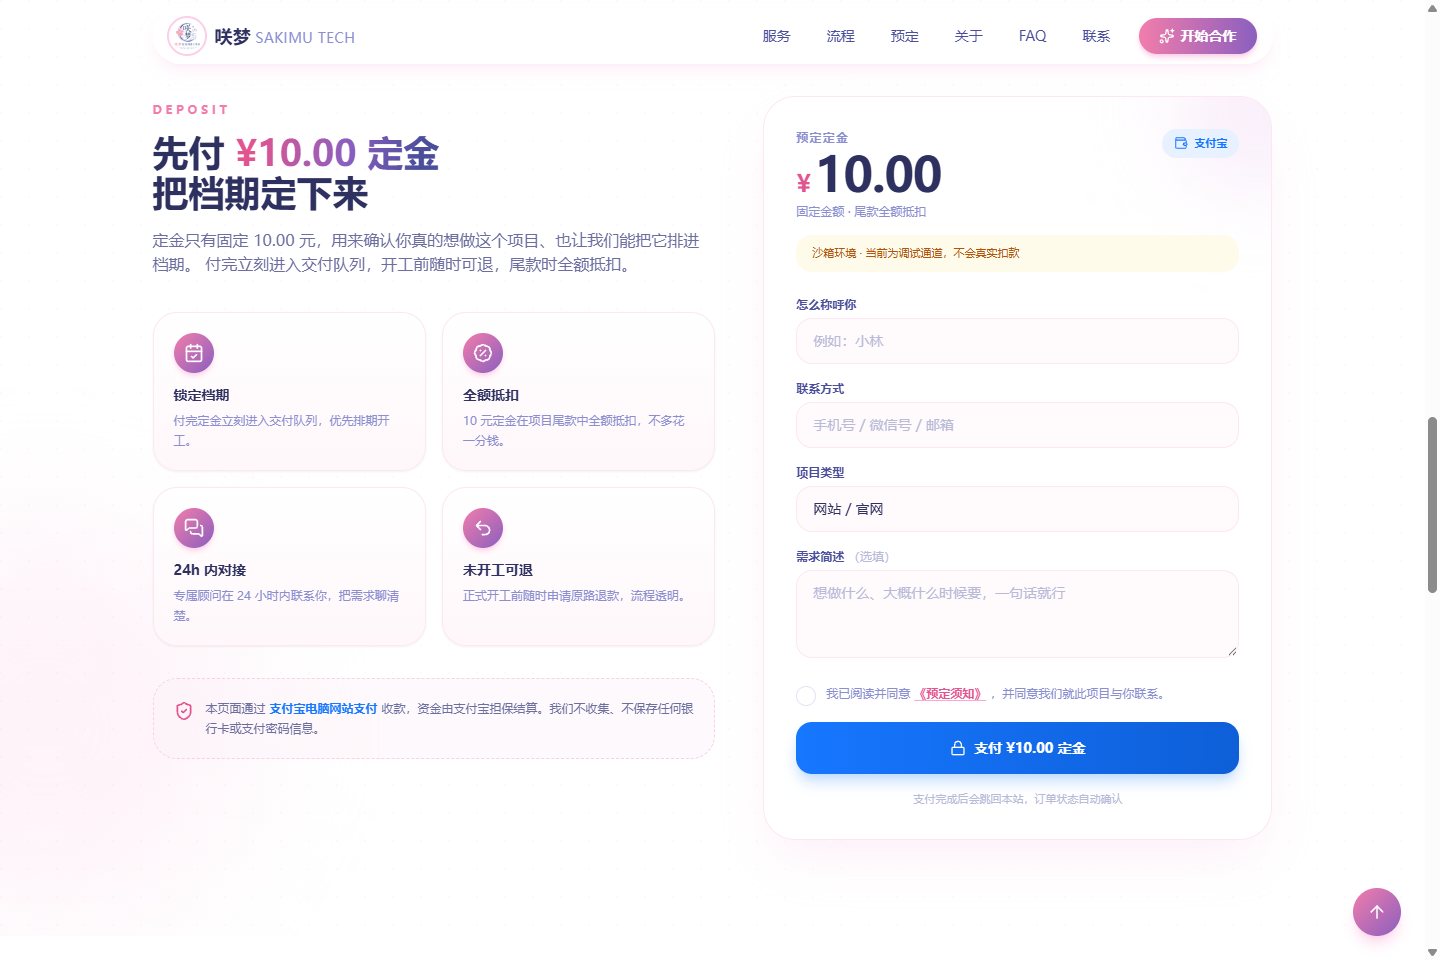
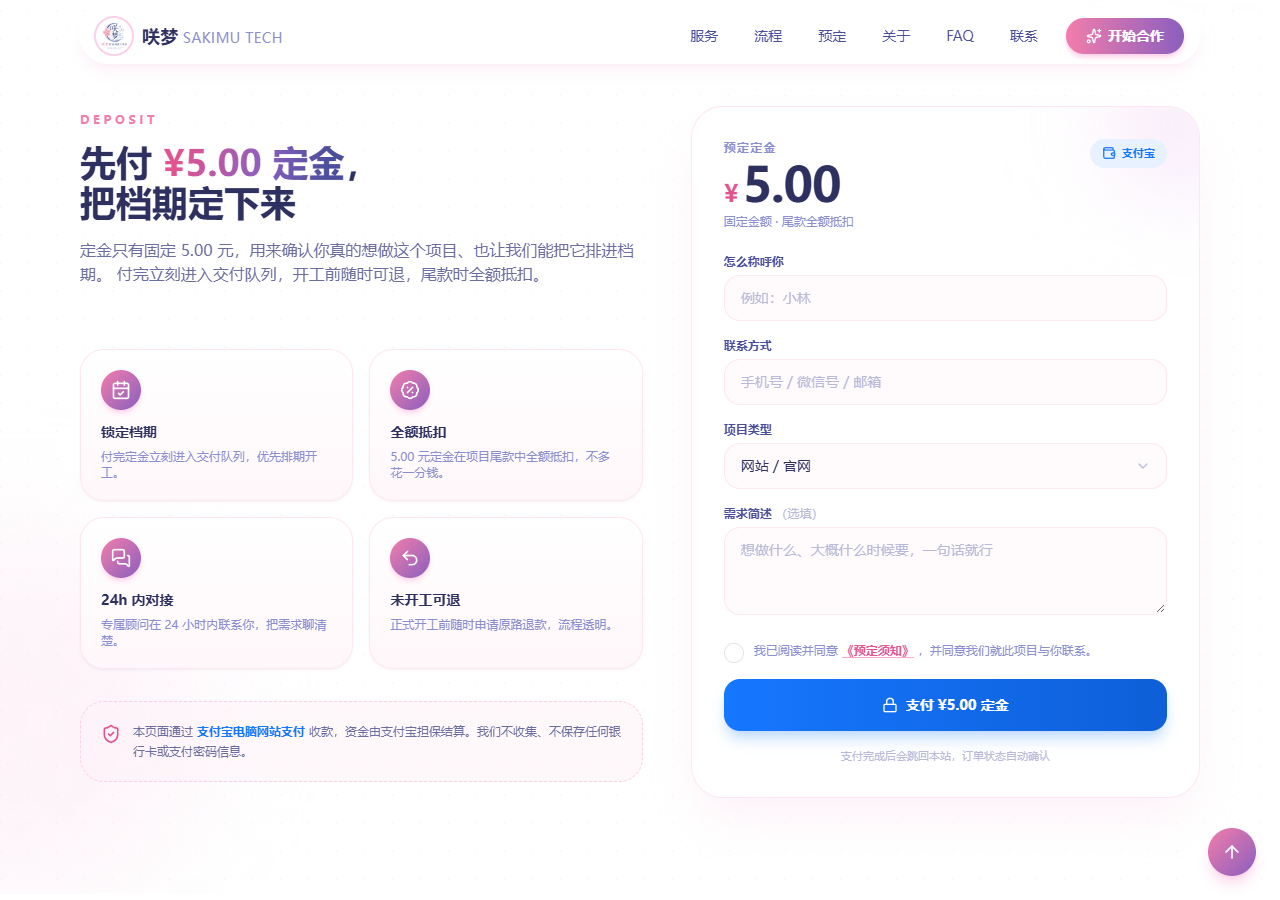
docs: 补充手机端说明与最新预览图
- 记录 page.pay 在手机上的实测形态（扫码/账户登录收银台）与 wap 切换条件
- 排障表补手机端两条；已知限制标注手机网站支付未签约
- 刷新 docs/preview 桌面端与移动端截图（¥5、表单前置布局）

diff --git a/docs/alipay-payment.md b/docs/alipay-payment.md
@@ -186,6 +186,30 @@ Nginx 反代与 systemd 单元示例见仓库 README 历史版本或直接：
 - **幂等**：同一 `out_trade_no` 重复通知只更新不重复记账，`paid_at` 只写一次。
 - **不依赖同步跳转**：`return` 里主动 `trade.query`，页面轮询 + 手动查询双保险。
 
+### 手机端（移动浏览器）
+
+**实测结论**（iPhone UA 打真实网关）：电脑网站支付在手机上**可以完成支付**，落地的是标准收银台
+`excashier.alipay.com/standard/auth.htm`，页面提供「打开手机支付宝 → 扫一扫付款」和「账户名 + 支付密码登录」两条路。
+能用，但不是手机原生体验（不会自动唤起支付宝 App）。
+
+因此做了两层：
+
+1. **界面适配**（默认生效）：移动端把表单排在简介之后、权益与说明后置；输入框 16px 起，规避 iOS Safari 聚焦缩放；
+   390px 宽度下无横向溢出；按钮触控高度 52px。桌面端布局不变（左文右表单，表单吸顶）。
+2. **收银台切换**`ALIPAY_MOBILE_METHOD`：
+
+   | 取值 | 手机上的行为 | 前提 |
+   | --- | --- | --- |
+   | `page`（当前默认） | 电脑网站支付收银台：扫码 / 账户密码登录 | 已签约电脑网站支付 |
+   | `wap` | 手机网站支付 `alipay.trade.wap.pay` / `QUICK_WAP_WAY`，自动唤起支付宝 App | **需先签约「手机网站支付」** |
+
+   签约后只需把 `wrangler.toml` 的 `ALIPAY_MOBILE_METHOD` 改成 `wap` 并 push，代码无需改动
+   （服务端按 UA 自动选择；`shared/alipay-core.js` 里 `PAY_METHODS` 定义两种收银台）。
+   订单会记录 `pay_method`，后台列表可直接看到这笔单走的哪种收银台。
+
+> 未签约就切到 `wap`，手机上会落到支付宝的「无权限」页，所以默认保持 `page`。
+
+
 ---
 
 ## 6. 接口清单
@@ -299,6 +323,8 @@ Nginx 反代与 systemd 单元示例见仓库 README 历史版本或直接：
 | 退款报「超出可退余额」 | 已退过 | 看后台「已退金额」 |
 | 时间戳报错 | 服务器时区不是东八区 | 无需改时区，代码用 `Asia/Shanghai` 生成 |
 | 页面 404 | 前端路由未回落 | `_routes.json` + `_redirects` 已处理；静态托管需保留两者 |
+| 手机上提示不支持 / 收银台体验差 | 走的是电脑网站支付收银台 | 签约手机网站支付后把 `ALIPAY_MOBILE_METHOD` 设为 `wap` |
+| 手机输入框聚焦时页面被放大 | iOS Safari 对 <16px 输入框自动缩放 | 已用 `text-base sm:text-sm` 规避 |
 | **国内部分网络访问超时** | `sakimu.cn` 解析到 172.67/104.21 段，实测该网络下约 50% 丢包；`*.pages.dev`（172.66 段）正常 | 换网络/代理可复测；若面向国内用户需长期稳定，建议把站点与支付服务迁到国内服务器（`www` 已指向腾讯云 106.53.138.57） |
 | KV 读到旧状态 | KV 最终一致（跨地域最多约 60 秒） | 结果页会持续轮询；关键状态以 `trade.query` 为准 |
 
@@ -310,4 +336,5 @@ Nginx 反代与 systemd 单元示例见仓库 README 历史版本或直接：
 - 线上订单存 KV，最终一致（写入后跨地域读取可能有秒级延迟），不做强事务。
 - 后台是单口令模式，没有多用户与操作审计（`order.events` 记录了本地动作流水）。
 - 未校验支付宝**响应**签名字段（`sign`），仅校验业务 `code`；如需强校验可扩展 `execute()`。
+- 手机网站支付（`alipay.trade.wap.pay`）代码已就绪但**尚未签约**，线上默认走电脑网站支付收银台。
 - 未做应用层限流（Cloudflare 侧可用 WAF Rate Limiting 规则兜底）。

diff --git a/README.md b/README.md
@@ -80,6 +80,8 @@ wrangler pages secret put ADMIN_TOKEN        --project-name sakimu-homepage
 
 - **金额固定 `¥5.00`**，由服务端配置决定，前端传的金额一律忽略。
 - 支付成功以**异步通知 + 主动查询**为准，不依赖同步跳转。
+- **手机端**：布局与输入体验已适配（表单前置、16px 输入框防缩放、无横向溢出）；收银台按 UA 选择，
+  `ALIPAY_MOBILE_METHOD=page|wap`（默认 `page`；签约「手机网站支付」后改 `wap` 即可自动唤起支付宝 App）。
 - 完整接入手册：[`docs/alipay-payment.md`](docs/alipay-payment.md)（签约状态、密钥指纹、KV、沙箱联调、排障表）。
 
 ### 页面与接口
